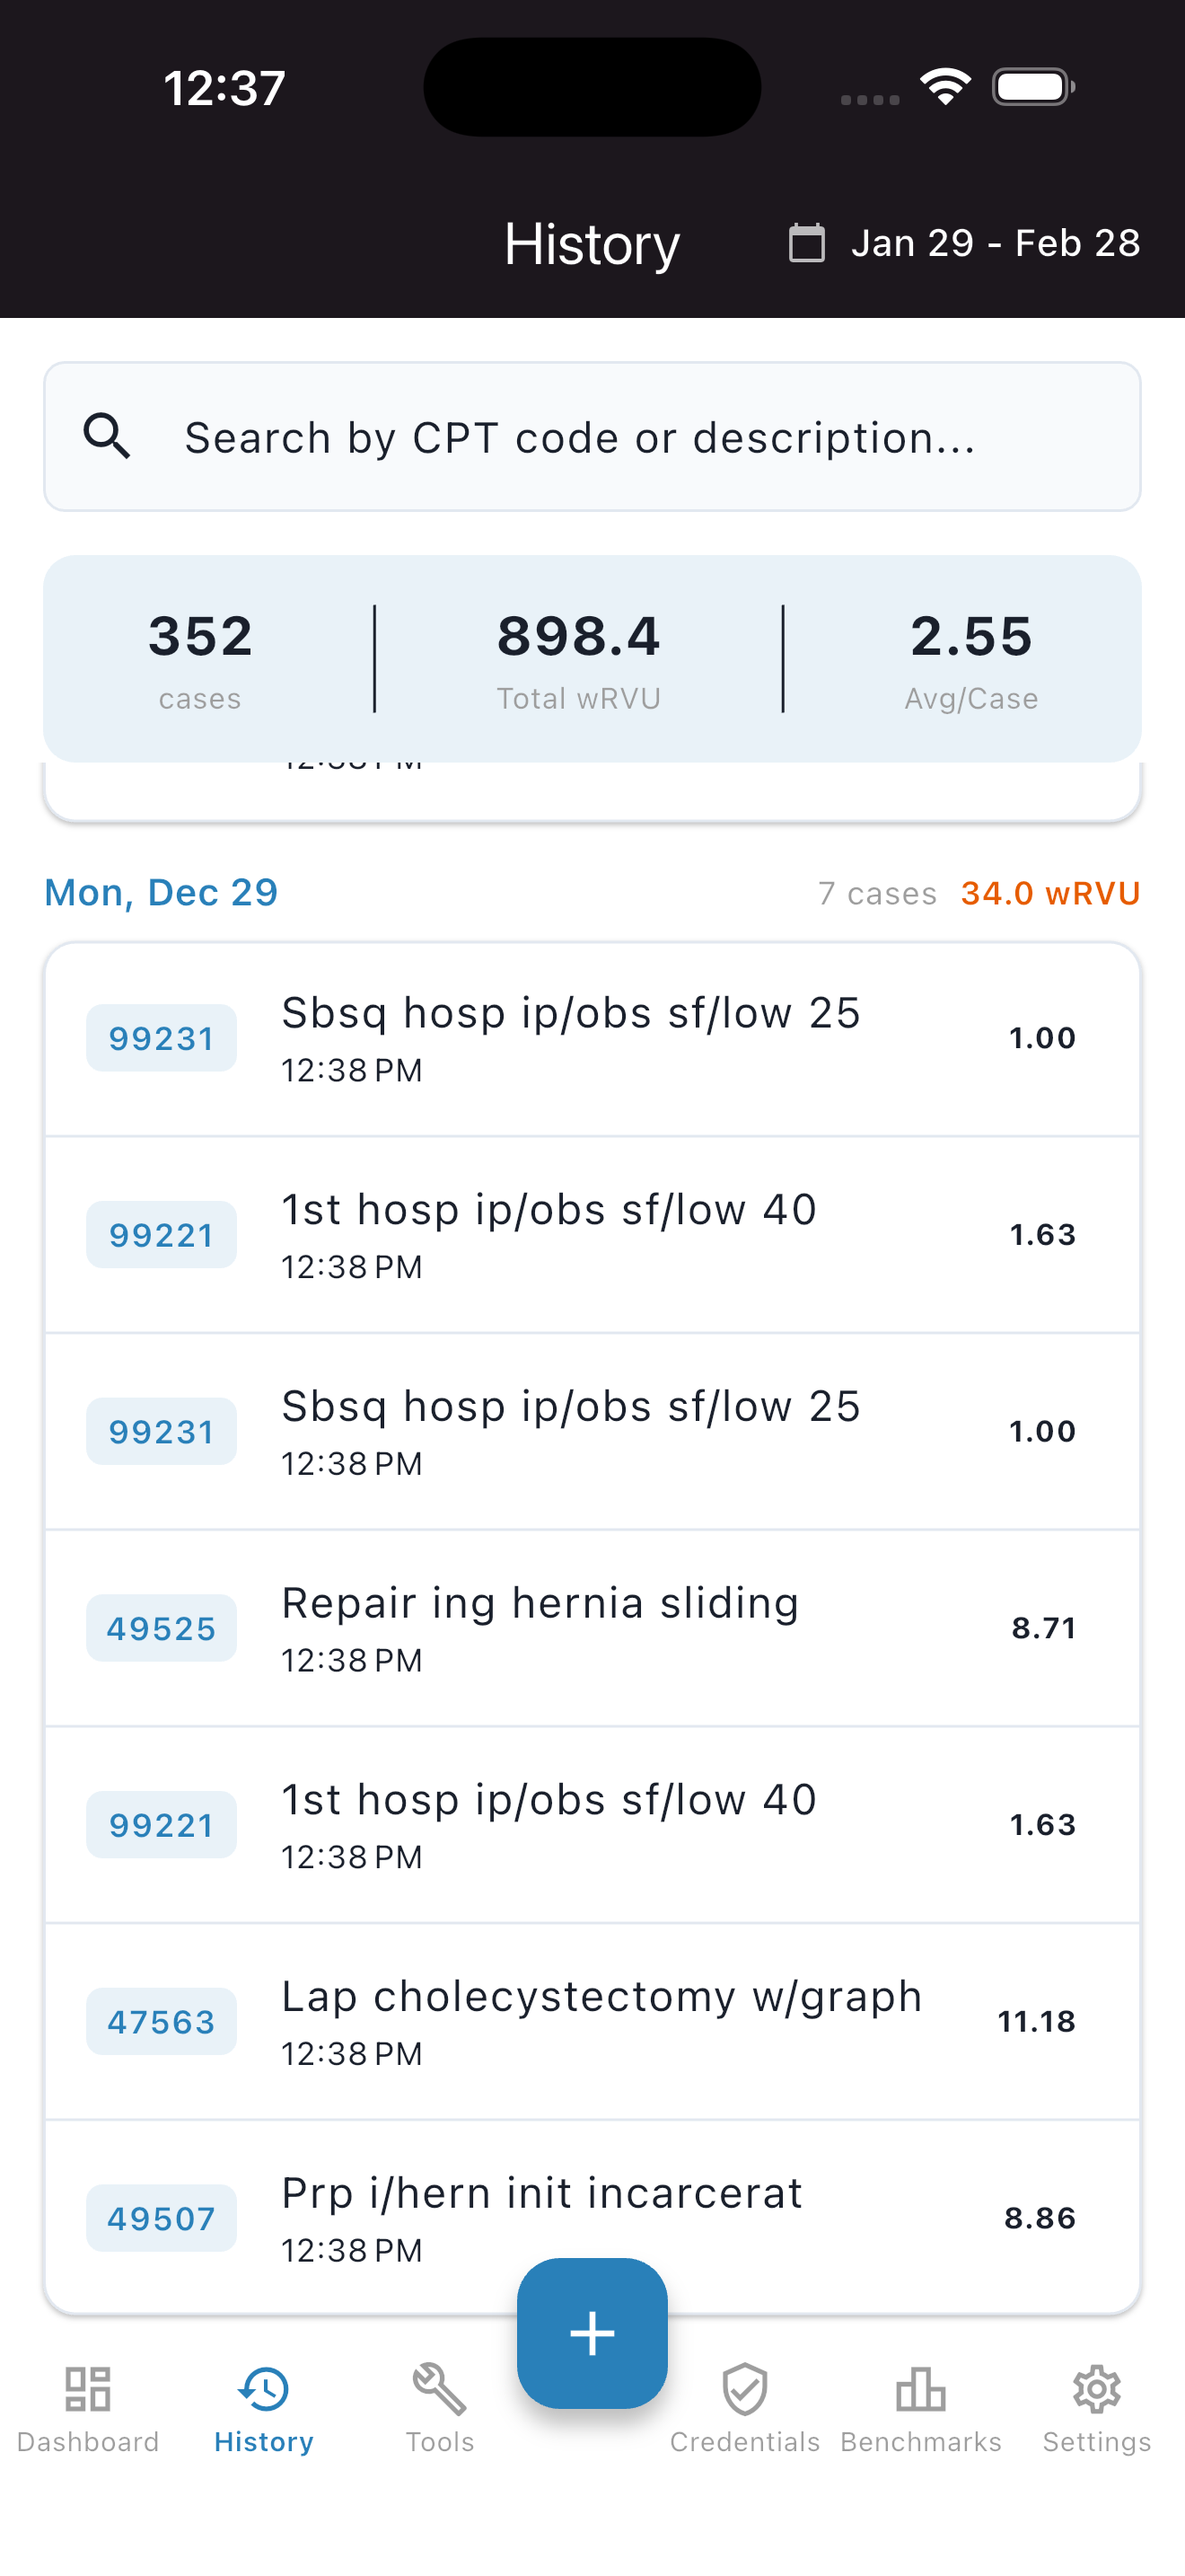
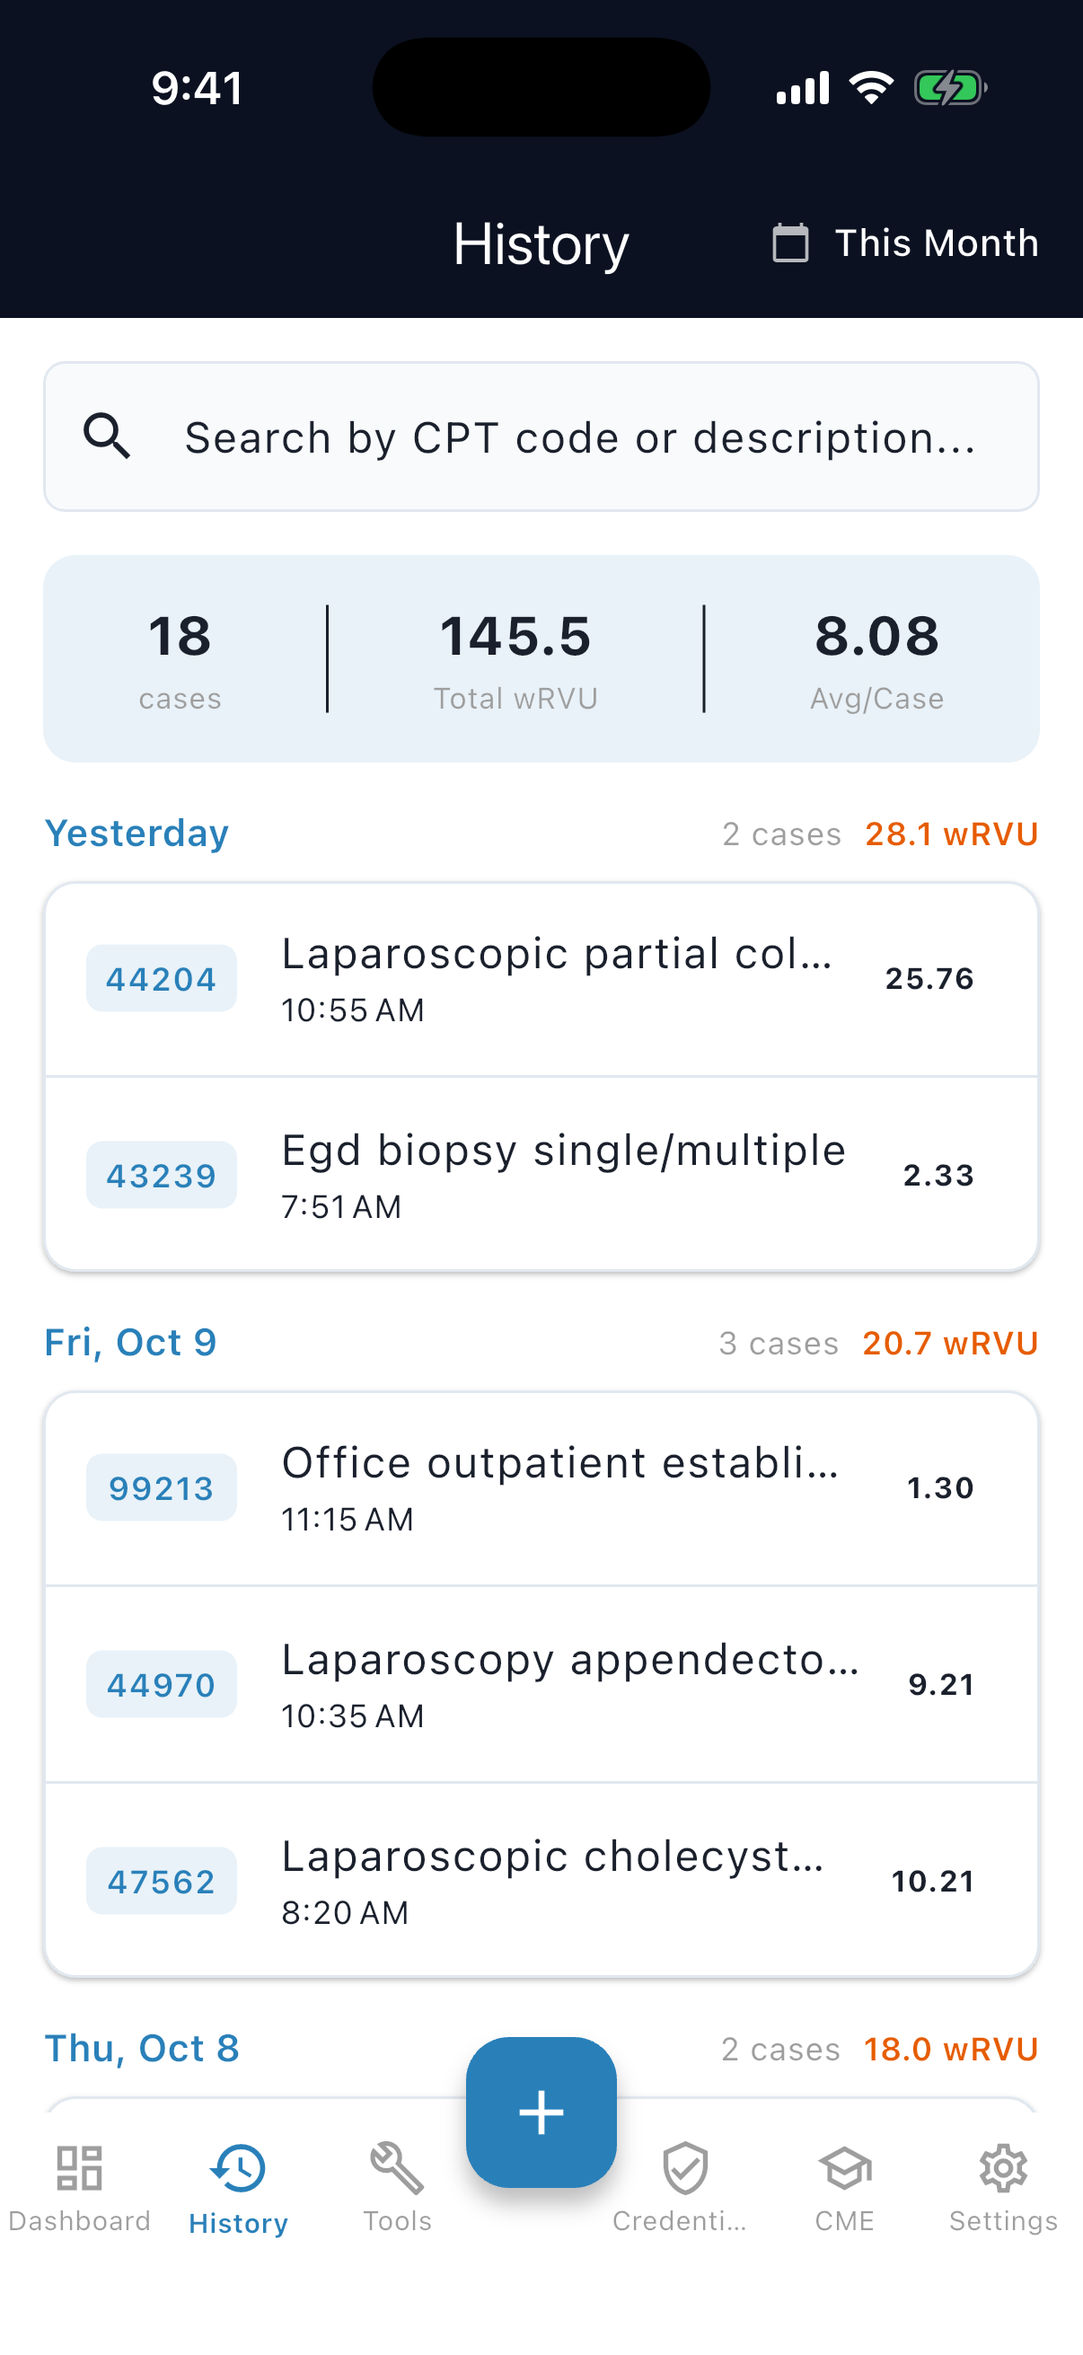
Use the new app screenshots; delete every image showing removed Benchmarks/MGMA
The site's screenshots predated the MGMA removal: the hero, gallery and
iPad images showed a "Benchmarks" tab, the One Platform promo showed it
too, and images/iphone/Benchmarks.PNG (an "MGMA Benchmarks" screen) was
still publicly served though nothing linked to it.

- Hero, gallery and career-section phone now use the October captures:
  Dashboard, Quick Log, Procedure Insights, History, Program Reports,
  Credential Vault, Settings (CV Builder and Import/Export kept; they
  show no tab bar).
- Removed the iPad image and the One Platform promo section.
- Deleted images/iphone, images/ipad, images/imac, screenshots/ipad,
  one-platform.png and the screenshots no longer used.

diff --git a/index.html b/index.html
@@ -305,7 +305,7 @@ layout: null
         <!-- Right: Phone -->
         <div class="flex-shrink-0 hero-phone">
           <div class="phone-frame phone-frame-lg">
-            <img src="images/screenshots/iphone/dashboard.png" alt="RVU Edge Dashboard with Practice Profile spider chart" loading="eager">
+            <img src="images/screenshots/iphone/dashboard.png" alt="RVU Edge dashboard with total wRVUs, cases, goal progress, and wRVU trend" loading="eager">
           </div>
         </div>
 
@@ -495,7 +495,7 @@ layout: null
         <!-- Right: Pinned Phone (desktop only) -->
         <div class="hidden lg:flex career-phone-wrap flex-shrink-0">
           <div class="phone-frame">
-            <img class="career-phone-img" src="images/screenshots/iphone/career-stage.png" alt="RVU Edge career stage view" loading="lazy">
+            <img class="career-phone-img" src="images/screenshots/iphone/history.png" alt="RVU Edge case history" loading="lazy">
           </div>
         </div>
       </div>
@@ -616,14 +616,6 @@ layout: null
   </section>
 
 
-  <!-- ==================== PROMO: ONE PLATFORM ==================== -->
-  <section class="section-darker py-12 reveal">
-    <div class="max-w-sm mx-auto px-4">
-      <img src="images/promo/one-platform.png" alt="One platform for your career — Track ACGME milestones and wRVU productivity in a single, unified dashboard view." class="w-full rounded-2xl shadow-2xl shadow-black/40" loading="lazy">
-    </div>
-  </section>
-
-
   <!-- ==================== SCREENSHOT GALLERY ==================== -->
   <section class="section-darker py-20 reveal" id="gallery">
     <div class="max-w-6xl mx-auto px-4 sm:px-6 lg:px-8">
@@ -642,16 +634,16 @@ layout: null
             <p class="text-sm text-slate-400 mt-4 font-medium">Quick Log</p>
           </div>
           <div class="swiper-slide flex flex-col items-center">
-            <div class="phone-frame"><img src="images/screenshots/iphone/quick-log-search.png" alt="Code Search"></div>
-            <p class="text-sm text-slate-400 mt-4 font-medium">Code Search</p>
+            <div class="phone-frame"><img src="images/screenshots/iphone/procedure-insights.png" alt="Procedure Insights: case counts, wRVUs, and monthly trend for chosen CPT codes"></div>
+            <p class="text-sm text-slate-400 mt-4 font-medium">Procedure Insights</p>
           </div>
           <div class="swiper-slide flex flex-col items-center">
             <div class="phone-frame"><img src="images/screenshots/iphone/history.png" alt="History"></div>
             <p class="text-sm text-slate-400 mt-4 font-medium">History</p>
           </div>
           <div class="swiper-slide flex flex-col items-center">
-            <div class="phone-frame"><img src="images/screenshots/iphone/dashboard.png" alt="Customizable Dashboard"></div>
-            <p class="text-sm text-slate-400 mt-4 font-medium">Customizable Dashboard</p>
+            <div class="phone-frame"><img src="images/screenshots/iphone/program-reports.png" alt="Program Reports with custom date ranges"></div>
+            <p class="text-sm text-slate-400 mt-4 font-medium">Program Reports</p>
           </div>
           <div class="swiper-slide flex flex-col items-center">
             <div class="phone-frame"><img src="images/screenshots/iphone/credentials.png" alt="Credentials"></div>
@@ -662,16 +654,12 @@ layout: null
             <p class="text-sm text-slate-400 mt-4 font-medium">CV Builder</p>
           </div>
           <div class="swiper-slide flex flex-col items-center">
-            <div class="phone-frame"><img src="images/screenshots/iphone/career-stage.png" alt="Career Stage"></div>
-            <p class="text-sm text-slate-400 mt-4 font-medium">Career Stage</p>
-          </div>
-          <div class="swiper-slide flex flex-col items-center">
             <div class="phone-frame"><img src="images/screenshots/iphone/import-export.png" alt="Import / Export"></div>
             <p class="text-sm text-slate-400 mt-4 font-medium">Import / Export</p>
           </div>
           <div class="swiper-slide flex flex-col items-center">
-            <div class="phone-frame"><img src="images/screenshots/iphone/import-data.png" alt="Import Data"></div>
-            <p class="text-sm text-slate-400 mt-4 font-medium">Import Data</p>
+            <div class="phone-frame"><img src="images/screenshots/iphone/settings.png" alt="Settings: career stage, board selection, and wRVU goals"></div>
+            <p class="text-sm text-slate-400 mt-4 font-medium">Settings</p>
           </div>
         </div>
         <div class="swiper-pagination mt-8"></div>
@@ -679,12 +667,6 @@ layout: null
         <div class="swiper-button-next"></div>
       </div>
 
-      <!-- iPad Row -->
-      <div class="flex flex-wrap items-center justify-center gap-8 mt-8">
-        <div class="ipad-frame">
-          <img src="images/screenshots/ipad/ipad-01.png" alt="RVU Edge on iPad">
-        </div>
-      </div>
       <p class="text-center text-slate-500 text-xs mt-4">Also available on iPad and Apple Watch</p>
     </div>
   </section>

diff --git a/js/animations.js b/js/animations.js
@@ -147,7 +147,7 @@
 
     const panels = gsap.utils.toArray('.career-panel');
     const phoneImg = document.querySelector('.career-phone-img');
-    const images = ['career-stage.png', 'import-export.png', 'credentials.png'];
+    const images = ['history.png', 'program-reports.png', 'procedure-insights.png'];
 
     panels.forEach((panel, i) => {
       ScrollTrigger.create({
